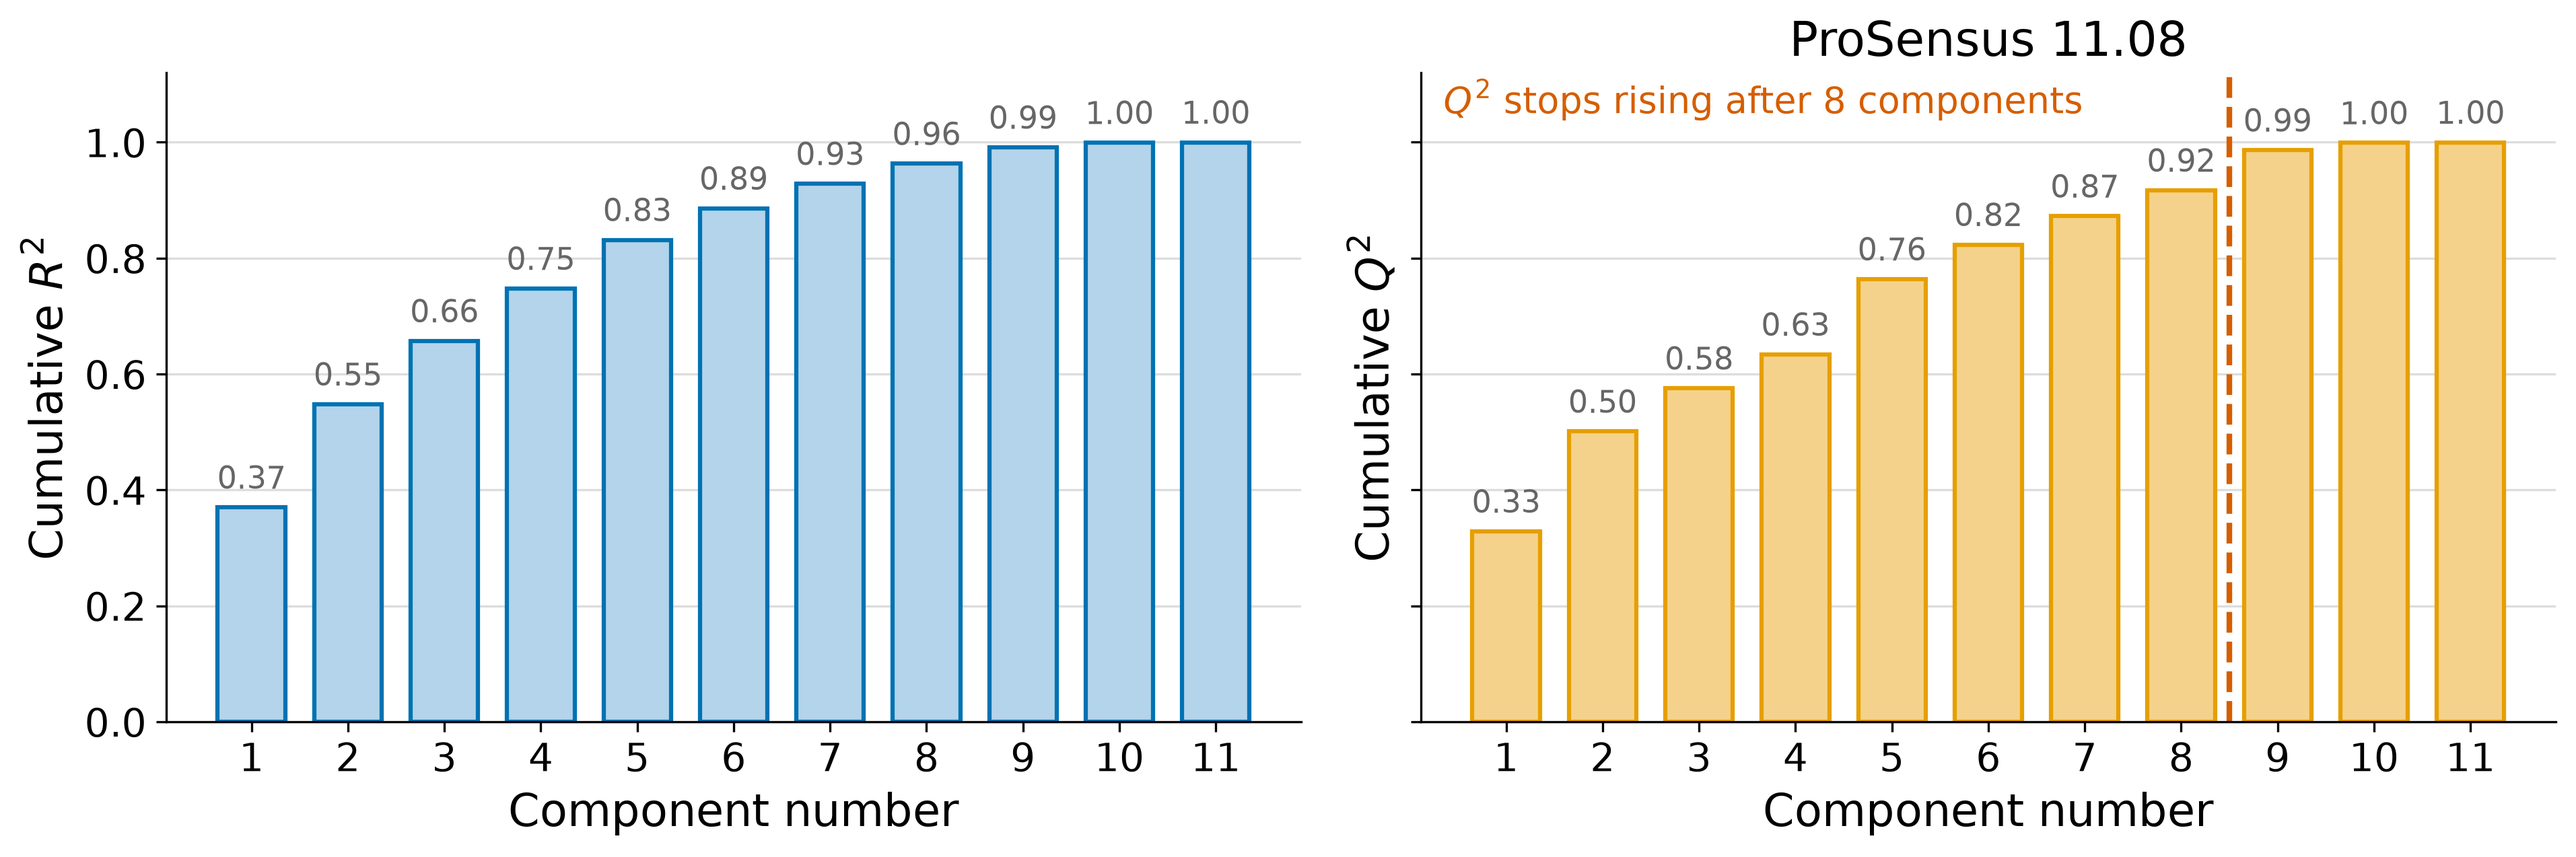
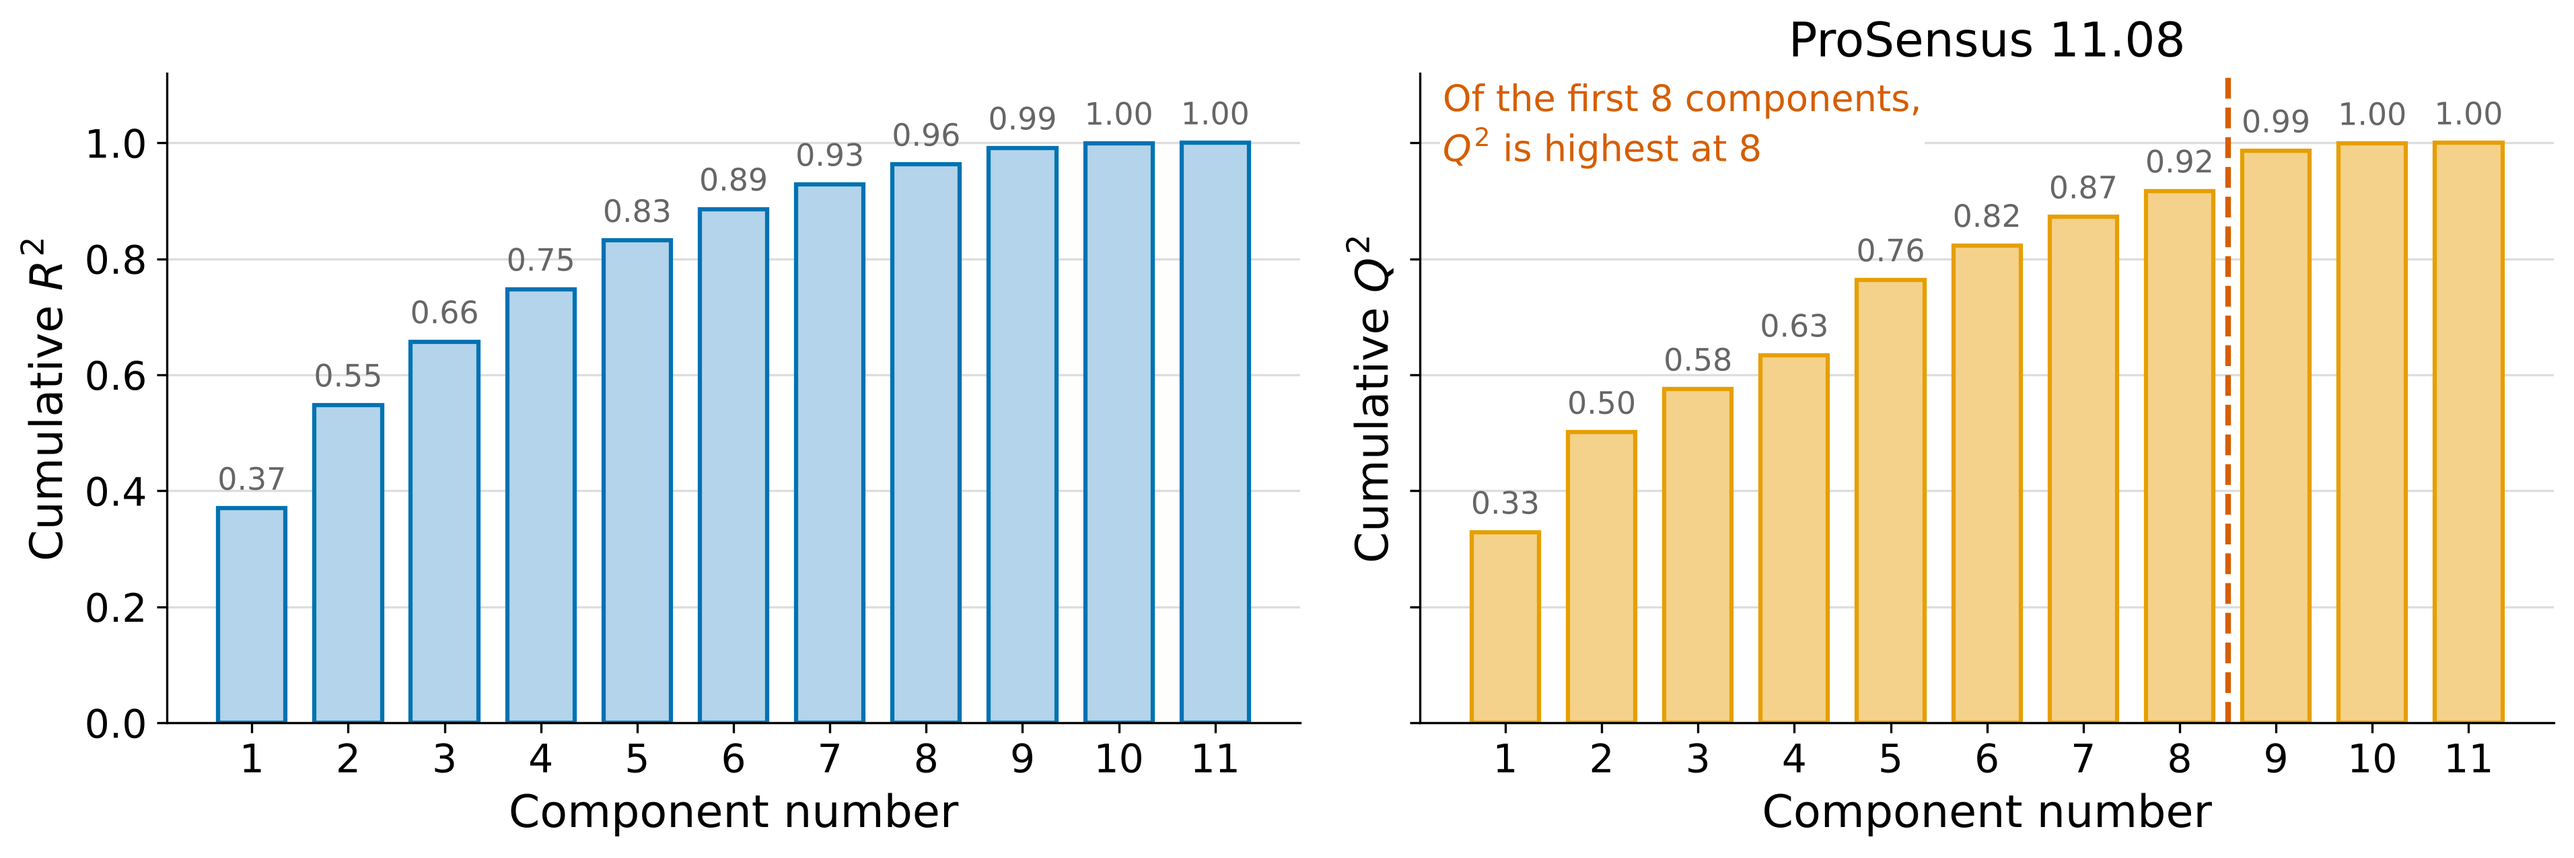
R2/Q2 bar plots: Q2 is highest at the marked component, it does not stop rising
The note read "Q2 stops rising after N components", which none of the three
figures bears out: Simca-P's Q2 rises again at the fifth and eighth
components, and ProSensus's rises at every component. What holds, and what
the dashed line marks, is where Q2 is highest over the first eight
components (2 for Simca-P, 8 for ProSensus). The note now says that, the
script checks STOP_AFTER against the recorded Q2, and the note has a white
background so the dashed line no longer runs through it. The three PNGs are
regenerated (DejaVu Sans, as committed); nothing else in them changes.

Claude-Session: https://claude.ai/code/session_01LwU1yYMLTh76SHVtknxLog

diff --git a/pca/pca_diagnostic_figures.py b/pca/pca_diagnostic_figures.py
@@ -7,8 +7,8 @@ Three committed PNGs, replacing the base-R output of
   first ten components of the distillation-tower data explains.
 - ``eigenvalue-scree-plot-cumulative.png``: the same, accumulated.
 - ``barplot-for-R2-and-Q2.png``: cumulative R-squared beside cumulative
-  Q-squared for the LDPE case study, showing where cross-validation stops
-  rewarding extra components.
+  Q-squared for the LDPE case study, marking the number of components at
+  which cross-validated Q-squared is highest.
 - ``q2-across-packages.png``: the Q-squared Simca-P reported beside the
   element-wise one computed by ``process_improve``, on one axis.
 
@@ -97,7 +97,9 @@ Q2 = {
     "ProSensus 11.08": [0.32847, 0.50085, 0.575319, 0.6338, 0.7637, 0.8231,
                         0.87225, 0.916889, 0.986077, 0.998795, 0.99972],
 }
-# Where each package's Q-squared stops rewarding another component.
+# Where each package's Q-squared is highest over the first eight components, before
+# the model runs out of variation to hold out (r2_q2_plot checks this against Q2).
+FIRST = 8
 STOP_AFTER = {"Simca-P 11.5": 2, "ProSensus 11.08": 8}
 
 mpl.rcParams.update(
@@ -171,6 +173,9 @@ def r2_q2_plot(package: str, outdir: pathlib.Path, name: str, shown: int = 11) -
     r2 = R2[:shown]
     components = np.arange(1, shown + 1)
     stop = STOP_AFTER[package]
+    best = int(np.argmax(Q2[package][:FIRST])) + 1
+    if best != stop:
+        raise ValueError(f"{package}: Q2 is highest at {best} of the first {FIRST}, not {stop}")
     print(f"{package}: R² goes {100 * R2[2]:.0f}% to {100 * R2[3]:.0f}% "
           f"on the 4th component, while Q² goes {100 * q2[2]:.0f}% to {100 * q2[3]:.0f}%")
 
@@ -192,9 +197,15 @@ def r2_q2_plot(package: str, outdir: pathlib.Path, name: str, shown: int = 11) -
     axes[1].axvline(stop + 0.5, color=VERMILLION, linestyle="--", linewidth=2)
     # The note goes in the corner rather than beside the line: the bars to
     # the right of the line are tall in one of these two figures.
-    axes[1].annotate(f"$Q^2$ stops rising after {stop} components",
+    # Q-squared rises again after the peak (Simca-P at the fifth and eighth
+    # components), so the note names the peak rather than saying it stops rising.
+    note = (f"$Q^2$ is highest at {stop} components" if shown <= FIRST
+            else f"Of the first {FIRST} components,\n$Q^2$ is highest at {stop}")
+    axes[1].annotate(note,
                      (0.02, 0.99), xycoords="axes fraction", color=VERMILLION,
-                     fontsize=13, ha="left", va="top")
+                     fontsize=13, ha="left", va="top", zorder=3,
+                     # The dashed line runs up through the note; keep the text legible.
+                     bbox={"facecolor": "white", "edgecolor": "none", "pad": 1})
     axes[1].set_title(package)
     fig.tight_layout()
     save(fig, outdir, name)
@@ -350,8 +361,7 @@ def main(outdir: pathlib.Path) -> None:
     # eleven variables, so by the ninth component the model is fitting
     # what little is left and cross-validation predicts it almost exactly.
     # Those three bars tower over the rest and bury the point the figure
-    # is making, that Q-squared stops rewarding components after the
-    # second. The two package images keep all eleven, as their originals
+    # is making, that Q-squared is highest at the second component. The two package images keep all eleven, as their originals
     # do.
     r2_q2_plot("Simca-P 11.5", outdir, "barplot-for-R2-and-Q2.png", shown=8)
     r2_q2_plot("Simca-P 11.5", outdir, "barplot-for-R2-and-Q2-Simca.png")
